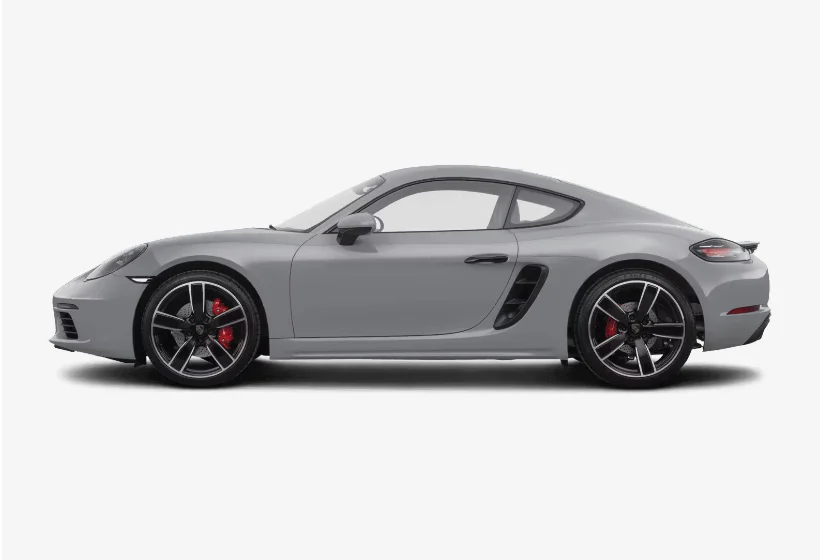
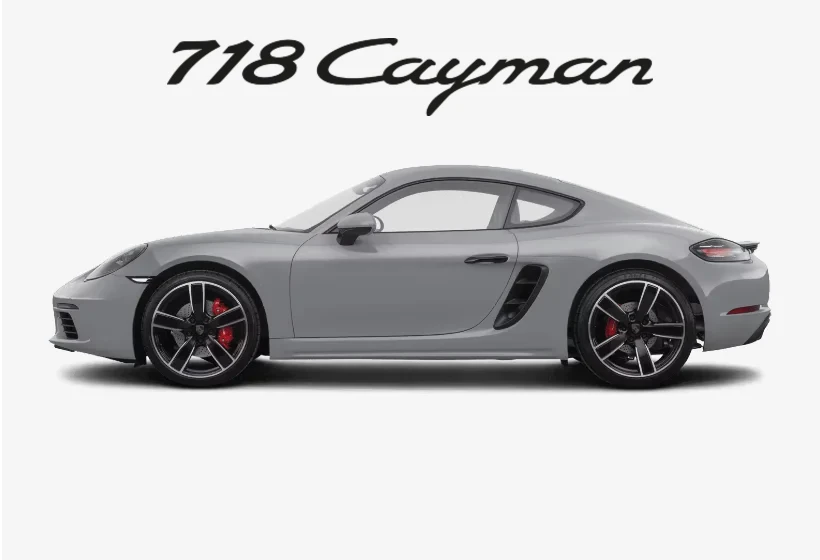
feat: cambio imagenes y font

Changed region(s): [[0.1829, 0.0607, 0.7927, 0.2125]]

diff --git a/index.html b/index.html
@@ -4,12 +4,15 @@
     <meta charset="UTF-8">
     <meta name="viewport" content="width=device-width, initial-scale=1.0">
     <link rel="stylesheet" href="style.css">
+    <link rel="preconnect" href="https://fonts.googleapis.com">
+    <link rel="preconnect" href="https://fonts.gstatic.com" crossorigin>
+    <link href="https://fonts.googleapis.com/css2?family=Lato:ital,wght@0,100;0,300;0,400;0,700;0,900;1,100;1,300;1,400;1,700;1,900&display=swap" rel="stylesheet">
     <title>Porsche</title>
 </head>
 
 <body>
     
-    <audio src="resources/engine.mp3" autoplay></audio>
+    <audio src="resources/engine.mp3" autoplay> Audio </audio>
     <header>
         <img src="resources/logo.webp" alt="Logo" width="20%" style="position: absolute;">
         <video src="resources/Porsche.webm" 
@@ -18,8 +21,10 @@
     
     <div>
         <i style="text-align: center; margin: 10%; display: block">“Al principio miré a mi alrededor y no encontré el auto con el que soñaba. Así que decidí construirlo yo mismo.”</i>
-        <p style="text-align: center;">Ferry Porsche — Fundador de la marca.</p>
-        <img src="resources/ferryPorsche.webp" alt="Ferry Porsche" width="80%" style="border-radius: 5%; margin: 10%;" >
+        <div style="text-align: center">
+            <b>Ferry Porsche — Fundador de la marca.</b>
+        </div>
+        <img src="resources/ferryPorsche.webp" alt="Ferry Porsche" width="80%" style="border-radius: 50px; margin: 10%;" >
         <p style="text-align: justify; margin: 10%">En 1948, el mundo del automovilismo cambió para siempre. Ante la frustración de no encontrar un auto deportivo que cumpliera con sus altas expectativas de ligereza, agilidad y rendimiento, Ferry Porsche tomó una decisión radical: diseñar y construir el coche de sus sueños con sus propias manos. Así nació el Porsche 356, el primer capítulo de una leyenda obsesionada con desafiar la física, dominar los circuitos de carreras y redefinir la ingeniería alemana en cada generación.</p>
     </div>
 

diff --git a/style.css b/style.css
@@ -2,6 +2,10 @@ body {
     margin: auto;
 }
 
+p, h1, h3 {
+    font-family: "Lato", sans-serif;
+}
+
 .modelos {
     overflow: hidden;
     position: relative;
@@ -22,5 +26,9 @@ body {
 .Motorsport {
     text-align: justify;
     margin: 10%;
+}
+
+.Motorsport img {
+    border-radius: 50px;
 }
 